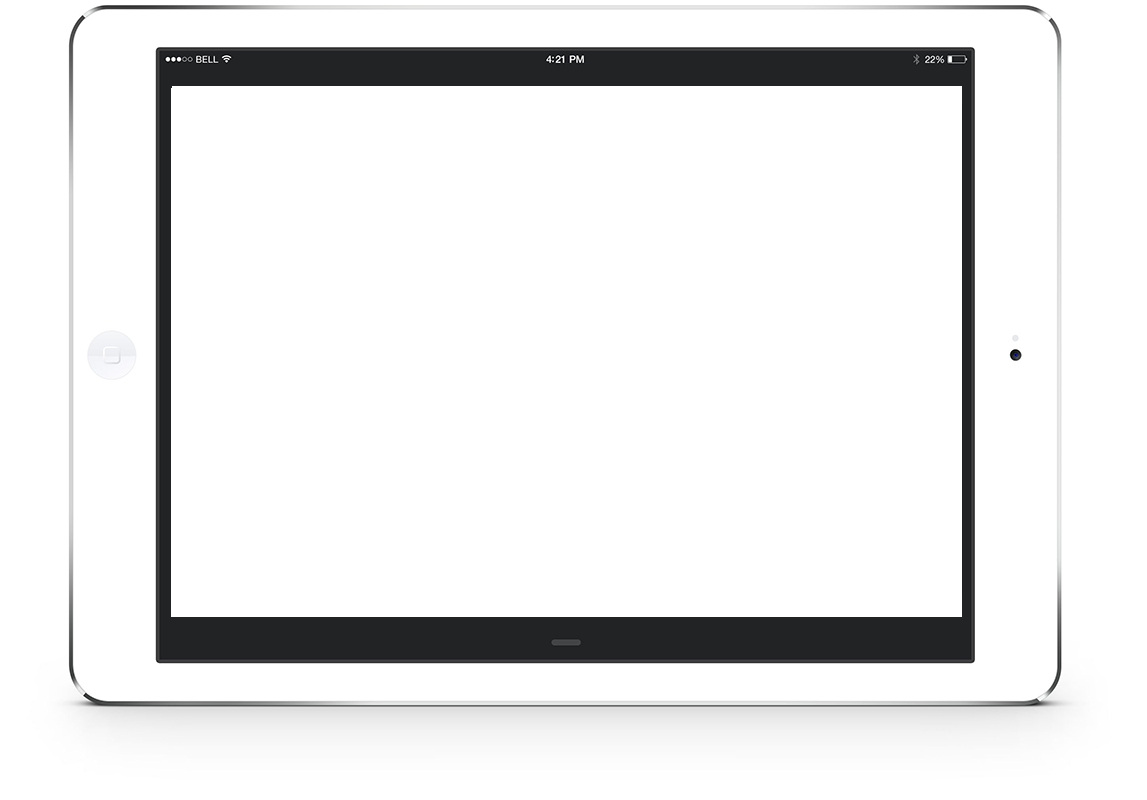
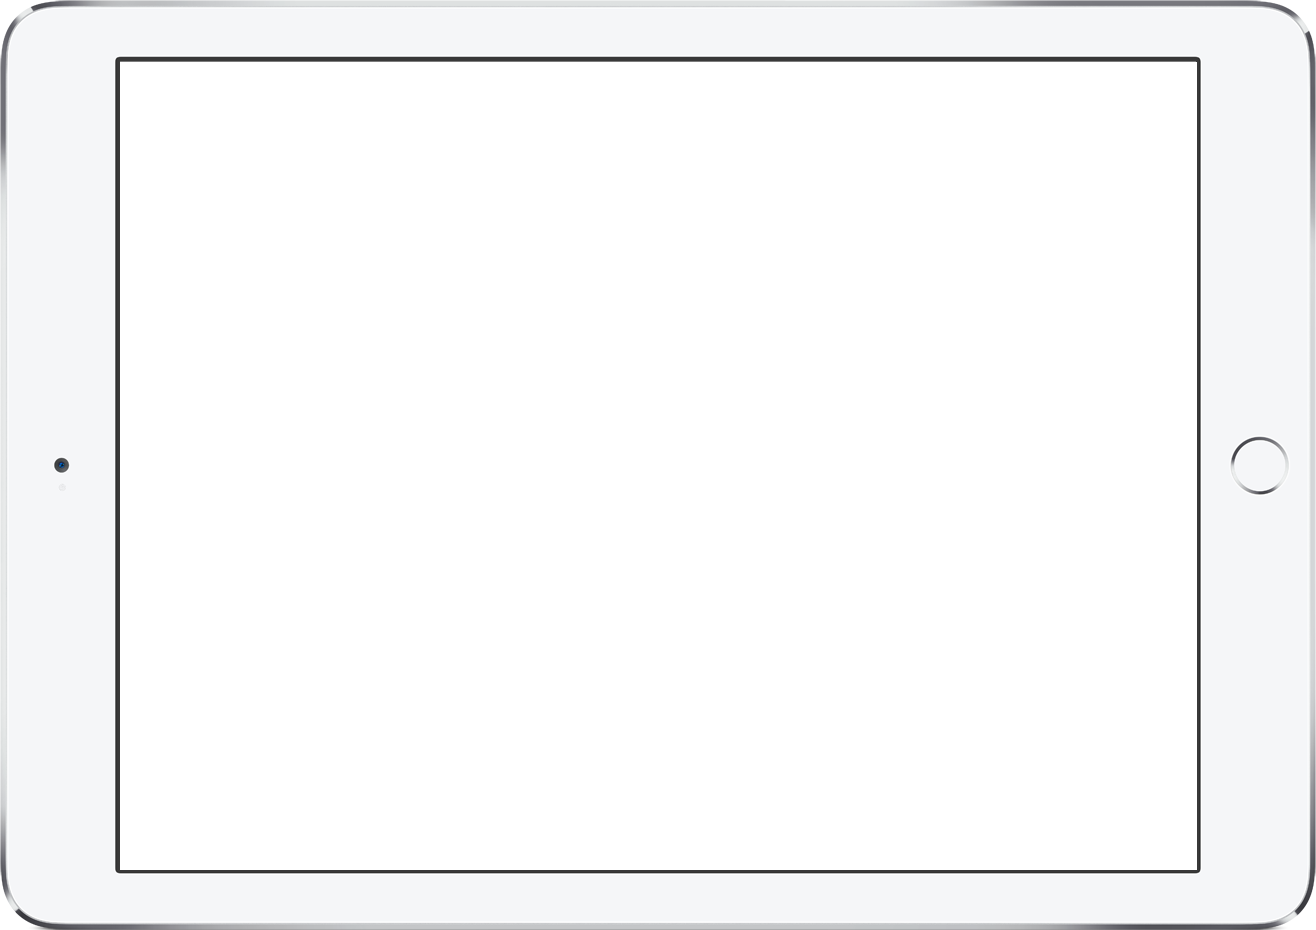
update ipad frame image

Changed region(s): [[0.0, 0.0, 1.0, 1.0], [0.0, 0.625, 0.0305, 0.6562]]

diff --git a/manuscript/page-9/style.css b/manuscript/page-9/style.css
@@ -1,7 +1,22 @@
-/*body {
+body {
   background-color: #8066ff;
   color: white;
-  background-image: url(https://raw.githubusercontent.com/marvindanig/elevator/master/assets/images/white.jpg);
+  background-image: url(https://raw.githubusercontent.com/marvindanig/elevator/master/assets/images/ipad.png);
   background-size: 200% 100%;
   background-position: center right;
-} */
+} 
+
+
+.demo {
+	position: absolute;
+    top: 14vw;
+    right: 31vw;
+    width: 100vw;
+    height: 86vw;
+    border: 0px none; 
+    contain: strict;
+    will-change: content;
+    -webkit-transform: translateZ(0);
+    transform: translateZ(0);
+    -webkit-overflow-scrolling: touch; 
+}

diff --git a/manuscript/page-8/style.css b/manuscript/page-8/style.css
@@ -1,7 +1,22 @@
-/*body {
+body {
   background-color: #8066ff;
   color: white;
-  background-image: url(https://raw.githubusercontent.com/marvindanig/elevator/master/assets/images/white.jpg);
+  background-image: url(https://raw.githubusercontent.com/marvindanig/elevator/master/assets/images/ipad.png);
   background-size: 200% 100%;
   background-position: center left; 
-}*/
+}
+
+
+.demo {
+	position: absolute;
+    top: 14vw;
+    left: 30vw;
+    width: 100vw;
+    height: 86vw;
+    border: 0px none; 
+    contain: strict;
+    will-change: content;
+    -webkit-transform: translateZ(0);
+    transform: translateZ(0);
+    -webkit-overflow-scrolling: touch; 
+}

diff --git a/manuscript/page-8/body.html b/manuscript/page-8/body.html
@@ -1,3 +1,7 @@
-<iframe src="https://bubblin.io/book/the-solar-system-by-marvin-danig/30" width="100%" height="50%">
+<div class="leaf flex">
+
+<iframe class="demo" rel="prerender" src="https://bubblin.io/book/the-solar-system-by-marvin-danig/30" width="200%">
 	
 </iframe>
+
+</div>

diff --git a/manuscript/page-9/body.html b/manuscript/page-9/body.html
@@ -1,0 +1,7 @@
+<div class="leaf flex">
+
+<iframe class="demo" rel="prerender" src="https://bubblin.io/book/the-solar-system-by-marvin-danig/31" width="100%">
+	
+</iframe>
+
+</div>
